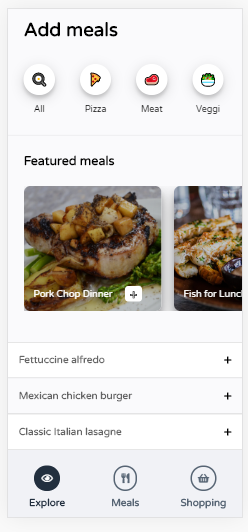
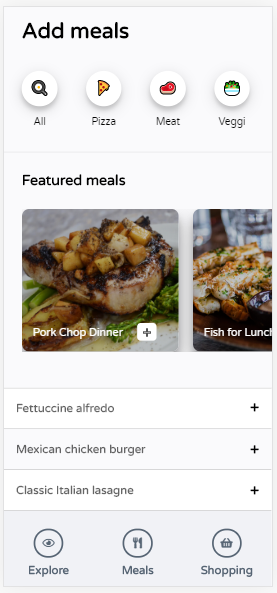
update readme

diff --git a/practiceProjects/2/style.css b/practiceProjects/2/style.css
@@ -197,6 +197,8 @@ button {
   border: 2px solid var(--footerFontColor);
   border-radius: 50px;
   margin-bottom: 10px;
+  min-width: 18px;
+  text-align: center;
 }
 
 .footer__item__title {

diff --git a/README.md b/README.md
@@ -7,5 +7,7 @@ css-master practice No.2
 
 # 19.09.24 Check
 
+* https://codesandbox.io/s/funny-fermi-6crmu
+
 <img src="./19-09-24 check.png">
 
